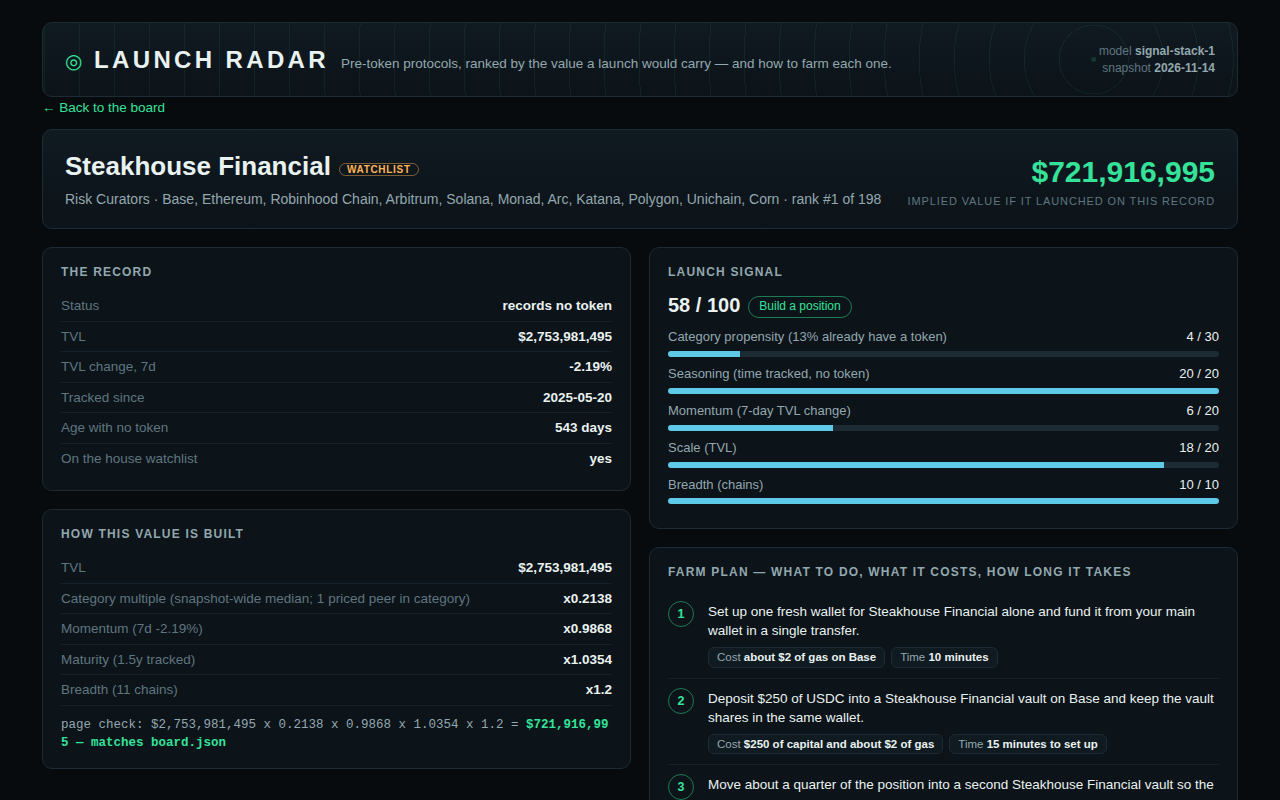
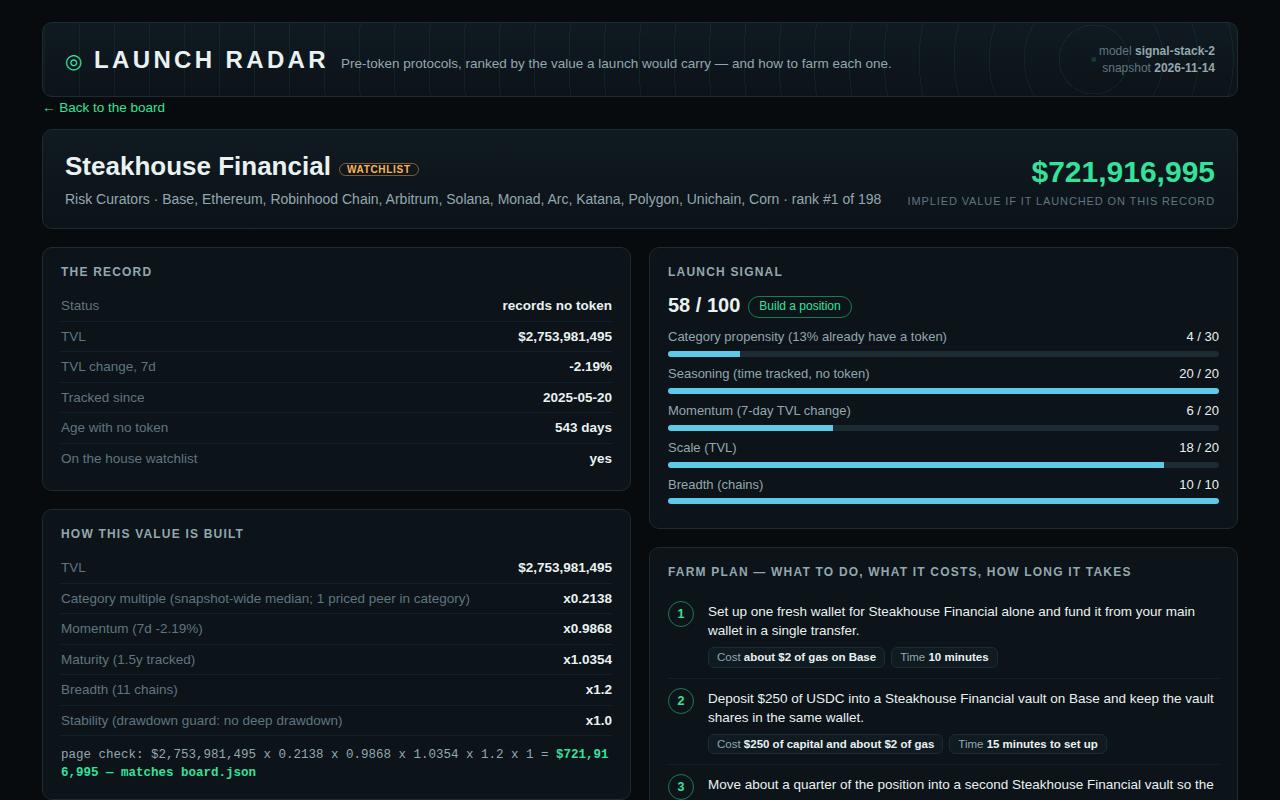
signal-stack-2: add stability (drawdown guard) as the sixth value factor; dashboard shows its work; screenshots regenerated

Changed region(s): [[0.0312, 0.875, 0.4688, 0.9688]]

diff --git a/lib/model.ts b/lib/model.ts
@@ -8,9 +8,9 @@
 // $5,000,000 TVL edge. Protocols whose token already trades are never ranked; they are listed
 // apart, at the market's own market cap.
 //
-// The implied value is one product of five factors, every one of them read off the snapshot:
+// The implied value is one product of six factors, every one of them read off the snapshot:
 //
-//   implied = tvl_usd x category_multiple x momentum x maturity x breadth
+//   implied = tvl_usd x category_multiple x momentum x maturity x breadth x stability
 //
 //   category_multiple  the median market-cap-to-TVL ratio of the category's own live-token
 //                      protocols in this same snapshot (a category with fewer than three such
@@ -25,6 +25,13 @@
 //                      counts as 300 days.
 //   breadth            1 + 0.04 x min(chains - 1, 5): each extra chain is distribution a launch
 //                      can reach, worth a little, never a lot.
+//   stability          the drawdown guard, new in signal-stack-2: 1 while the week's move is
+//                      no worse than -20%, then a discount growing linearly to at most 25%
+//                      as the loss deepens to -100%. Momentum already prices an ordinary bad
+//                      week; stability prices a collapse — a protocol in freefall would not
+//                      launch into its own chart, and a board that ranks it as if it would
+//                      is ranking a fiction. Only deep drawdowns are touched: a -19% week
+//                      and a +40% week both carry a stability of exactly 1.
 //
 // The components a row carries are rounded to 4 decimals and the implied value is the product
 // of the rounded components, so the dashboard can rebuild the number from the row alone and
@@ -70,6 +77,9 @@ export interface ModelConstants {
   unknown_age_days: number;
   breadth_per_chain: number;
   breadth_max_extra: number;
+  stability_threshold_pct: number;
+  stability_span_pct: number;
+  stability_max_discount: number;
   multiple_min: number;
   multiple_max: number;
   multiple_min_peers: number;
@@ -85,13 +95,16 @@ export const MODEL: ModelConstants = {
   unknown_age_days: 300,
   breadth_per_chain: 0.04,
   breadth_max_extra: 5,
+  stability_threshold_pct: 20,
+  stability_span_pct: 80,
+  stability_max_discount: 0.25,
   multiple_min: 0.03,
   multiple_max: 2.5,
   multiple_min_peers: 3,
 };
 
 /** The model's version label: the dashboard names it. */
-export const MODEL_VERSION = 'signal-stack-1';
+export const MODEL_VERSION = 'signal-stack-2';
 
 /** How many live-token protocols the dashboard's Already trading view carries, by market cap. */
 export const LIVE_ROWS = 30;
@@ -119,6 +132,7 @@ export interface BoardRow {
     momentum_multiplier: number;
     maturity_multiplier: number;
     breadth_multiplier: number;
+    stability_multiplier: number;
   };
   signal: {
     score: number;
@@ -151,6 +165,7 @@ export interface RadarRow {
   momentum_multiplier: number;
   maturity_multiplier: number;
   breadth_multiplier: number;
+  stability_multiplier: number;
   signal_score: number;
   signal_tier: string;
   signal_parts: { propensity: number; propensity_pts: number; seasoning_pts: number; momentum_pts: number; scale_pts: number; breadth_pts: number };
@@ -300,7 +315,7 @@ export function valueFactors(
   multiples: Map<string, { multiple: number; peers: number }>,
   globalMultiple: number,
   model: ModelConstants = MODEL,
-): { implied: number; categoryMultiple: number; categoryPeers: number; momentumMult: number; maturityMult: number; breadthMult: number; age: number | null } {
+): { implied: number; categoryMultiple: number; categoryPeers: number; momentumMult: number; maturityMult: number; breadthMult: number; stabilityMult: number; age: number | null } {
   const age = ageDays(asOf, p.listed_at);
   const entry = multiples.get(p.category ?? '(uncategorised)');
   const categoryMultiple = entry === undefined ? globalMultiple : entry.multiple;
@@ -310,8 +325,10 @@ export function valueFactors(
   const ageForModel = age ?? model.unknown_age_days;
   const maturityMult = round4(model.maturity_base + model.maturity_span * (1 - Math.exp(-Math.max(ageForModel, 0) / model.maturity_tau_days)));
   const breadthMult = round4(1 + model.breadth_per_chain * Math.min(Math.max(p.chains.length - 1, 0), model.breadth_max_extra));
-  const implied = Math.max(1, Math.round(p.tvl_usd * categoryMultiple * momentumMult * maturityMult * breadthMult));
-  return { implied, categoryMultiple, categoryPeers, momentumMult, maturityMult, breadthMult, age };
+  const drawdown = clamp((-(p.change_7d ?? 0) - model.stability_threshold_pct) / model.stability_span_pct, 0, 1);
+  const stabilityMult = round4(1 - model.stability_max_discount * drawdown);
+  const implied = Math.max(1, Math.round(p.tvl_usd * categoryMultiple * momentumMult * maturityMult * breadthMult * stabilityMult));
+  return { implied, categoryMultiple, categoryPeers, momentumMult, maturityMult, breadthMult, stabilityMult, age };
 }
 
 /** The launch signal's five parts and its tier: stated on the dashboard, never a rank input. */
@@ -499,6 +516,7 @@ export function buildBoard(snapshot: Snapshot, model: ModelConstants = MODEL): B
       momentum_multiplier: s.f.momentumMult,
       maturity_multiplier: s.f.maturityMult,
       breadth_multiplier: s.f.breadthMult,
+      stability_multiplier: s.f.stabilityMult,
     },
     signal: {
       score: s.signal.score,
@@ -551,6 +569,7 @@ export function radarRow(row: BoardRow): RadarRow {
     momentum_multiplier: row.model.momentum_multiplier,
     maturity_multiplier: row.model.maturity_multiplier,
     breadth_multiplier: row.model.breadth_multiplier,
+    stability_multiplier: row.model.stability_multiplier,
     signal_score: row.signal.score,
     signal_tier: row.signal.tier,
     signal_parts: {

diff --git a/dashboard/app.js b/dashboard/app.js
@@ -58,7 +58,7 @@
   // The board's own arithmetic, rebuilt in the page: a detail view shows this product beside the
   // value board.json carries, so a reader can see the two agree.
   function impliedOf(row) {
-    var v = row.tvl_usd * row.category_multiple * row.momentum_multiplier * row.maturity_multiplier * row.breadth_multiplier;
+    var v = row.tvl_usd * row.category_multiple * row.momentum_multiplier * row.maturity_multiplier * row.breadth_multiplier * row.stability_multiplier;
     return Math.max(1, Math.round(v));
   }
 
@@ -246,14 +246,15 @@
     var sec = el('section', 'section');
     kid(sec, el('h2', null, 'How the radar prices a launch that has not happened'));
     var p1 = kid(sec, el('p'));
-    p1.innerHTML = 'Every implied value on this board is one product of five factors, each read off the sealed snapshot itself — no hand-kept list of names, no outside price feed. Open any protocol and the page rebuilds its number from the row\'s own factors, beside the number <b>board.json</b> carries.';
-    kid(sec, el('div', 'formula', 'implied value  =  TVL  x  category multiple  x  momentum  x  maturity  x  breadth'));
+    p1.innerHTML = 'Every implied value on this board is one product of six factors, each read off the sealed snapshot itself — no hand-kept list of names, no outside price feed. Open any protocol and the page rebuilds its number from the row\'s own factors, beside the number <b>board.json</b> carries.';
+    kid(sec, el('div', 'formula', 'implied value  =  TVL  x  category multiple  x  momentum  x  maturity  x  breadth  x  stability'));
     var list = kid(sec, el('ul'));
     [
       ['Category multiple', 'the median market-cap-to-TVL ratio of the category\'s own live-token protocols in this same snapshot (' + D.global_multiple + ' snapshot-wide). A lending market is priced the way lending markets with tokens are priced here. Categories with fewer than ' + D.model.multiple_min_peers + ' priced peers take the snapshot-wide median; every multiple is clamped to [' + D.model.multiple_min + ', ' + D.model.multiple_max + '].'],
       ['Momentum', '1 + clamp(7-day TVL change, ' + D.model.momentum_floor_pct + '%, +' + D.model.momentum_cap_pct + '%) x ' + D.model.momentum_weight + '. Growth counts, one week\'s spike is capped.'],
       ['Maturity', D.model.maturity_base + ' + ' + D.model.maturity_span + ' x (1 - exp(-age / ' + D.model.maturity_tau_days + ' days)): a record that has survived longer supports more of its peer multiple. An unrecorded age counts as ' + D.model.unknown_age_days + ' days.'],
       ['Breadth', '1 + ' + D.model.breadth_per_chain + ' per extra chain, up to ' + D.model.breadth_max_extra + ': distribution a launch can reach on day one.'],
+      ['Stability (new in signal-stack-2)', 'the drawdown guard: 1 while the week\'s move is no worse than -' + D.model.stability_threshold_pct + '%, then a discount growing to at most ' + Math.round(D.model.stability_max_discount * 100) + '% as the loss deepens. Momentum prices an ordinary bad week; stability prices a collapse — a protocol in freefall would not launch into its own chart.'],
       ['The signal (0-100)', 'never moves the rank. It scores how strongly the record reads as a launch in the making: the share of the category that already has a token (30), time tracked with no token, peaking rather than plateauing (20), 7-day momentum (20), scale (20) and chain breadth (10). 65 and up reads Farm now.'],
     ].forEach(function (item) {
       var li = kid(list, el('li'));
@@ -320,6 +321,7 @@
       ['Momentum (7d ' + (fmtPct(row.change_7d) || 'n/a') + ')', fmtMult(row.momentum_multiplier)],
       ['Maturity (' + fmtAge(row.age_days) + ' tracked)', fmtMult(row.maturity_multiplier)],
       ['Breadth (' + row.chains.length + ' chain' + (row.chains.length === 1 ? '' : 's') + ')', fmtMult(row.breadth_multiplier)],
+      ['Stability (drawdown guard' + (row.stability_multiplier < 1 ? ': 7d loss beyond −20%' : ': no deep drawdown') + ')', fmtMult(row.stability_multiplier)],
     ].forEach(function (kv) {
       var line = kid(fac, el('div', 'kv'));
       kid(line, el('span', 'k', kv[0]));
@@ -327,7 +329,7 @@
     });
     var check = kid(fac, el('div', 'check'));
     var rebuilt = impliedOf(row);
-    check.appendChild(document.createTextNode('page check: ' + fmtFull(row.tvl_usd) + ' x ' + row.category_multiple + ' x ' + row.momentum_multiplier + ' x ' + row.maturity_multiplier + ' x ' + row.breadth_multiplier + ' = '));
+    check.appendChild(document.createTextNode('page check: ' + fmtFull(row.tvl_usd) + ' x ' + row.category_multiple + ' x ' + row.momentum_multiplier + ' x ' + row.maturity_multiplier + ' x ' + row.breadth_multiplier + ' x ' + row.stability_multiplier + ' = '));
     kid(check, el('b', null, fmtFull(rebuilt) + (rebuilt === row.implied_value_usd ? ' — matches board.json' : ' — differs from board.json')));
 
     var sig = kid(right, el('div', 'card'));

diff --git a/README.md b/README.md
@@ -1,8 +1,8 @@
 # token-radar-01
 
 [![make.fun · token-radar-01](https://make.fun/badge/token-radar-01.svg)](https://make.fun/bounty/token-radar-01?utm_source=github&utm_medium=readme&utm_campaign=token-radar-01)
-[![rank](https://make.fun/badge/token-radar-01/salikamarlisa3-cell/token-radar-01/rank.svg)](https://make.fun/bounty/token-radar-01/leaderboard?utm_source=github&utm_medium=readme&utm_campaign=token-radar-01)
-[![reward](https://make.fun/badge/token-radar-01/salikamarlisa3-cell/token-radar-01/reward.svg)](https://make.fun/bounty/token-radar-01?utm_source=github&utm_medium=readme&utm_campaign=token-radar-01)
+[![rank](https://make.fun/badge/token-radar-01/salikamarlisa3-cell/token-radar-01-v2/rank.svg)](https://make.fun/bounty/token-radar-01/leaderboard?utm_source=github&utm_medium=readme&utm_campaign=token-radar-01)
+[![reward](https://make.fun/badge/token-radar-01/salikamarlisa3-cell/token-radar-01-v2/reward.svg)](https://make.fun/bounty/token-radar-01?utm_source=github&utm_medium=readme&utm_campaign=token-radar-01)
 
 A token launch radar: a Node 22 program (standard library only) that reads the sealed
 DefiLlama protocol snapshot, ranks every qualifying pre-token protocol by the value a token
@@ -21,9 +21,9 @@ the same board), `dashboard/` (the page), `screenshots/`, and `dossier.json` (bu
 `vendor/makefun-board.ts`, the scorer's own library). Two runs over the same snapshot write
 the same bytes.
 
-## The model (lib/model.ts, version signal-stack-1)
+## The model (lib/model.ts, version signal-stack-2)
 
-`implied = TVL x category multiple x momentum x maturity x breadth`
+`implied = TVL x category multiple x momentum x maturity x breadth x stability`
 
 - **Category multiple** — the median market-cap-to-TVL ratio of the category's own live-token
   protocols in the same snapshot (categories with fewer than 3 priced peers take the
@@ -31,6 +31,11 @@ the same bytes.
 - **Momentum** — 1 + clamp(7-day TVL change, -50%, +100%) x 0.6.
 - **Maturity** — 0.75 + 0.45 x (1 - exp(-age_days / 540)); an unrecorded age counts as 300 days.
 - **Breadth** — 1 + 0.04 per extra chain, up to 5.
+- **Stability** — the drawdown guard, new in signal-stack-2: 1 while the week's move is no
+  worse than -20%, then a discount growing linearly to at most 25% as the loss deepens to
+  -100%. Momentum already prices an ordinary bad week; stability prices a collapse — a
+  protocol in freefall would not launch into its own chart, and the board no longer ranks
+  it as if it would. Every other row's value is untouched.
 
 The board ranks all 198 protocols the snapshot records with no token of their own, excluding
 wrapped, staked and bridged products of tokens that already trade (their launch is the parent
